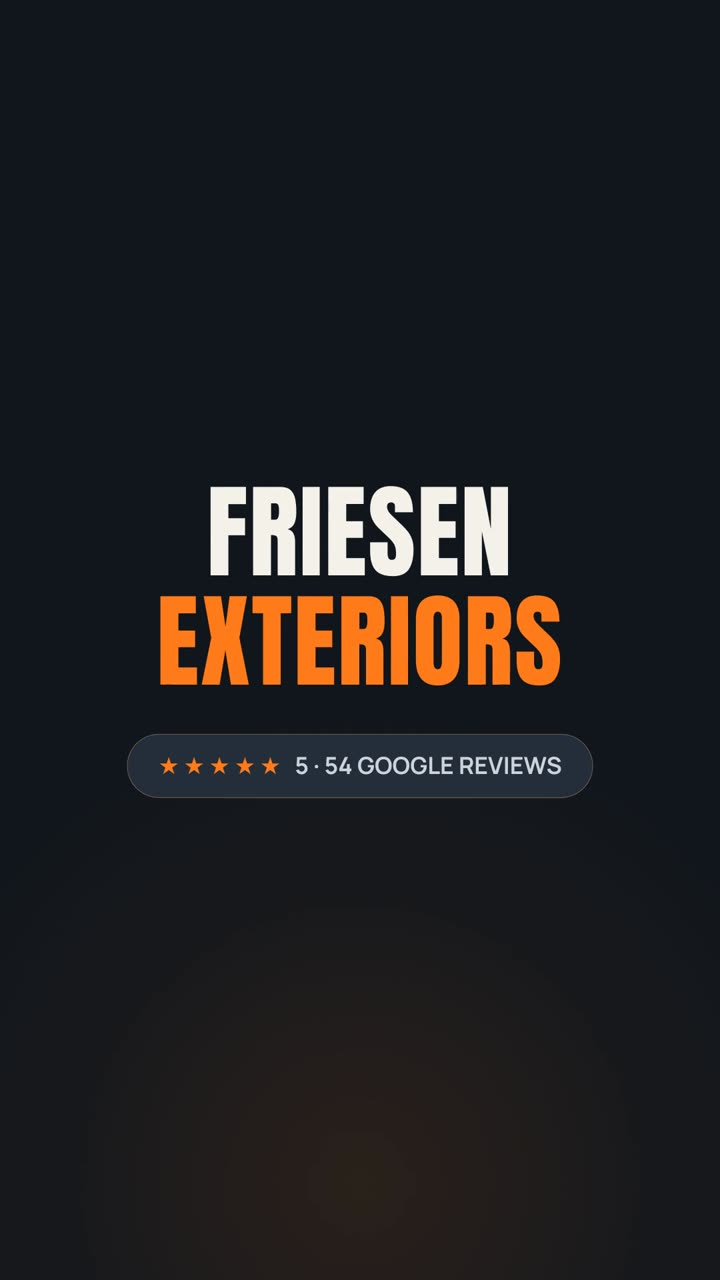
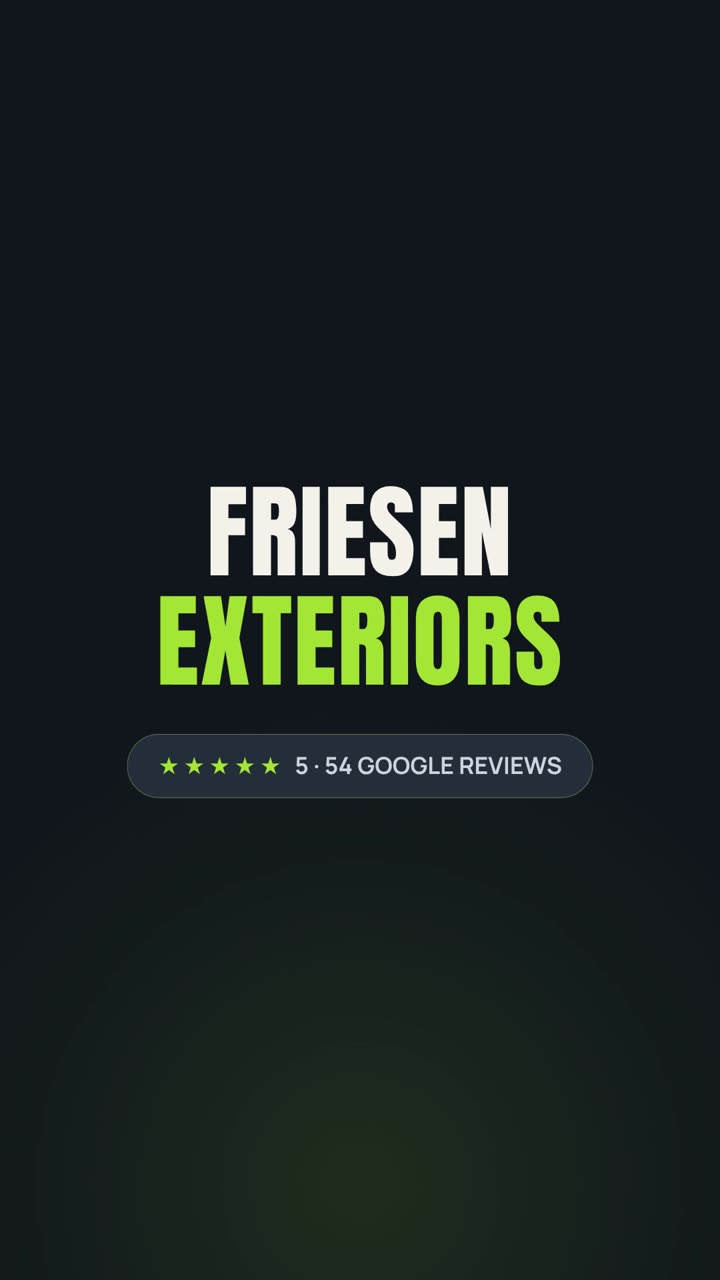
Friesen Exteriors: lime green rebrand (page + tour video + poster)

Changed region(s): [[0.2139, 0.4375, 0.7944, 0.5625], [0.2139, 0.5938, 0.3972, 0.625]]

diff --git a/friesen-exteriors-tillsonburg/index.html b/friesen-exteriors-tillsonburg/index.html
@@ -11,7 +11,7 @@
 <style>
   :root{
     --slate:#11161c; --slate-2:#1a222c; --slate-3:#232e3a;
-    --amber:#ff7a18; --amber-soft:#ffb066; --paper:#f4f1ea; --paper-dim:#cdd4dc;
+    --amber:#a3e635; --amber-soft:#bef264; --paper:#f4f1ea; --paper-dim:#cdd4dc;
     --line:rgba(255,255,255,.09); --ok:#3ddc84;
   }
   *{margin:0;padding:0;box-sizing:border-box}
@@ -22,17 +22,17 @@
   .wrap{max-width:1100px;margin:0 auto;padding:0 22px}
   .callbar{position:fixed;left:0;right:0;bottom:0;z-index:50;display:flex;gap:10px;padding:12px 16px;background:linear-gradient(0deg,var(--slate) 70%,transparent)}
   .callbar a{flex:1;text-align:center;padding:15px;border-radius:12px;font-weight:800;font-size:1.02rem;letter-spacing:.3px}
-  .btn-call{background:var(--amber);color:#1a0e02;box-shadow:0 8px 28px rgba(255,122,24,.35)}
+  .btn-call{background:var(--amber);color:#101c05;box-shadow:0 8px 28px rgba(163,230,53,.35)}
   .btn-quote{background:var(--slate-3);color:var(--paper);border:1px solid var(--line)}
   @media(min-width:780px){.callbar{display:none}}
   nav{display:flex;align-items:center;justify-content:space-between;padding:20px 0;border-bottom:1px solid var(--line)}
   .brand{display:flex;align-items:center;gap:11px}
-  .mark{width:42px;height:42px;border-radius:11px;display:grid;place-items:center;background:linear-gradient(150deg,var(--amber),#c2410c);font-family:'Anton';font-size:1.4rem;color:#1a0e02;box-shadow:0 6px 18px rgba(255,122,24,.3)}
+  .mark{width:42px;height:42px;border-radius:11px;display:grid;place-items:center;background:linear-gradient(150deg,var(--amber),#65a30d);font-family:'Anton';font-size:1.4rem;color:#101c05;box-shadow:0 6px 18px rgba(163,230,53,.3)}
   .brand b{font-family:'Anton';font-size:1.18rem;color:var(--paper);letter-spacing:.5px;text-transform:uppercase}
   .nav-call{display:none}
-  @media(min-width:780px){.nav-call{display:inline-block;background:var(--amber);color:#1a0e02;font-weight:800;padding:11px 20px;border-radius:10px}}
+  @media(min-width:780px){.nav-call{display:inline-block;background:var(--amber);color:#101c05;font-weight:800;padding:11px 20px;border-radius:10px}}
   .hero{position:relative;padding:54px 0 64px;overflow:hidden}
-  .hero:before{content:"";position:absolute;inset:0;z-index:0;background:radial-gradient(60% 50% at 85% 0%,rgba(255,122,24,.16),transparent 60%),repeating-linear-gradient(135deg,rgba(255,255,255,.022) 0 2px,transparent 2px 22px)}
+  .hero:before{content:"";position:absolute;inset:0;z-index:0;background:radial-gradient(60% 50% at 85% 0%,rgba(163,230,53,.16),transparent 60%),repeating-linear-gradient(135deg,rgba(255,255,255,.022) 0 2px,transparent 2px 22px)}
   .hero .wrap{position:relative;z-index:1}
   .eyebrow{display:inline-flex;align-items:center;gap:8px;font-size:.74rem;font-weight:700;letter-spacing:.18em;text-transform:uppercase;color:var(--amber-soft);margin-bottom:18px}
   .eyebrow .dot{width:7px;height:7px;border-radius:50%;background:var(--ok);box-shadow:0 0 0 4px rgba(61,220,132,.18)}
@@ -40,7 +40,7 @@
   .hero h1 .line2{color:var(--amber)}
   .lede{font-size:clamp(1.02rem,2.6vw,1.22rem);max-width:560px;color:var(--paper-dim);margin-bottom:30px}
   .hero-cta{display:flex;flex-wrap:wrap;gap:13px;align-items:center}
-  .big-call{display:inline-flex;align-items:center;gap:12px;background:var(--amber);color:#1a0e02;font-weight:800;font-size:1.12rem;padding:17px 26px;border-radius:13px;box-shadow:0 12px 34px rgba(255,122,24,.34);transition:transform .15s ease}
+  .big-call{display:inline-flex;align-items:center;gap:12px;background:var(--amber);color:#101c05;font-weight:800;font-size:1.12rem;padding:17px 26px;border-radius:13px;box-shadow:0 12px 34px rgba(163,230,53,.34);transition:transform .15s ease}
   .big-call:hover{transform:translateY(-2px)}
   .ghost{display:inline-flex;align-items:center;gap:9px;padding:16px 22px;border:1px solid var(--line);border-radius:13px;font-weight:700;color:var(--paper)}
   .trust{display:grid;grid-template-columns:repeat(3,1fr);gap:1px;background:var(--line);border:1px solid var(--line);border-radius:16px;overflow:hidden;margin-top:40px}
@@ -67,7 +67,7 @@
   .checks li{display:flex;gap:13px;align-items:flex-start;font-size:1rem;color:var(--paper)}
   .checks .ck{flex:none;width:26px;height:26px;border-radius:8px;background:rgba(61,220,132,.14);color:var(--ok);display:grid;place-items:center;font-weight:800}
   .badge-box{background:linear-gradient(160deg,var(--slate-3),var(--slate));border:1px solid var(--line);border-radius:18px;padding:30px;position:relative;overflow:hidden}
-  .badge-box:before{content:"";position:absolute;top:-40px;right:-40px;width:160px;height:160px;border-radius:50%;background:radial-gradient(circle,rgba(255,122,24,.22),transparent 70%)}
+  .badge-box:before{content:"";position:absolute;top:-40px;right:-40px;width:160px;height:160px;border-radius:50%;background:radial-gradient(circle,rgba(163,230,53,.22),transparent 70%)}
   .badge-box .rating{font-family:'Anton';font-size:4.4rem;color:var(--paper);line-height:1}
   .badge-box .of{color:var(--paper-dim);font-size:1rem}
   .rev-grid{display:grid;grid-template-columns:1fr;gap:16px}
@@ -78,10 +78,10 @@
   .quote .who{font-size:.84rem;color:var(--paper-dim);font-weight:600}
   .area-pills{display:flex;flex-wrap:wrap;gap:11px;margin-top:8px}
   .pill{background:var(--slate-3);border:1px solid var(--line);border-radius:999px;padding:10px 18px;font-weight:600;color:var(--paper);font-size:.92rem}
-  .final{background:linear-gradient(150deg,var(--amber),#c2410c);color:#1a0e02;text-align:center;border-radius:22px;padding:54px 26px;margin:14px 0;position:relative;overflow:hidden}
+  .final{background:linear-gradient(150deg,var(--amber),#65a30d);color:#101c05;text-align:center;border-radius:22px;padding:54px 26px;margin:14px 0;position:relative;overflow:hidden}
   .final:before{content:"";position:absolute;inset:0;background:repeating-linear-gradient(135deg,rgba(0,0,0,.05) 0 2px,transparent 2px 20px)}
-  .final h2{color:#1a0e02;font-size:clamp(2rem,7vw,3.2rem);position:relative}
-  .final p{color:#3a2206;font-weight:600;max-width:480px;margin:12px auto 26px;position:relative}
+  .final h2{color:#101c05;font-size:clamp(2rem,7vw,3.2rem);position:relative}
+  .final p{color:#2b4409;font-weight:600;max-width:480px;margin:12px auto 26px;position:relative}
   .final a{display:inline-flex;align-items:center;gap:11px;background:#11161c;color:var(--paper);font-weight:800;font-size:1.15rem;padding:18px 30px;border-radius:13px;position:relative}
   footer{border-top:1px solid var(--line);padding:42px 0 110px}
   @media(min-width:780px){footer{padding-bottom:50px}}